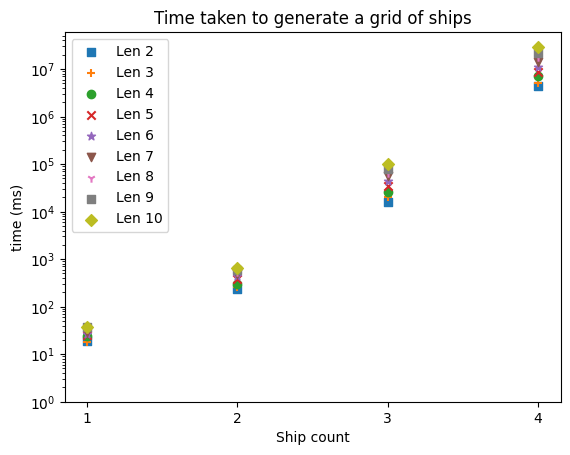
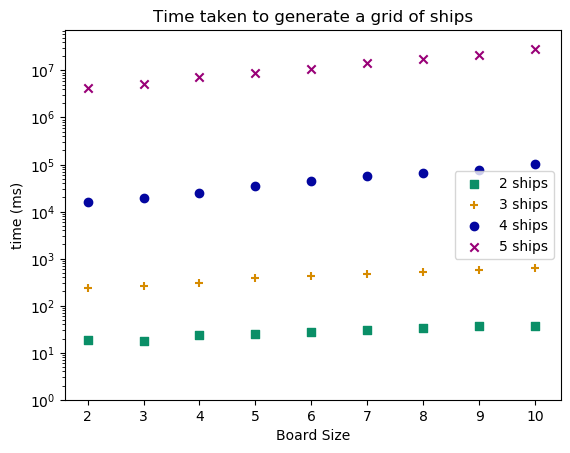
shorter speed testing prep

diff --git a/src/Runner.java b/src/Runner.java
@@ -27,46 +27,49 @@ public class Runner {
         int allBoards=0;
         int goodBoards=0;
         
-        while(encodedBoard!=null){
-            try {
-                System.out.print(Arrays.toString(encodedBoard));
-                String s1=String.format("%8s", Integer.toBinaryString((int) encodedBoard[0] & 0xFF)).replace(' ', '0');
-                System.out.println("\t0b"+s1);
+        // File fValid = new File("../out/bytes_validShips_"+Board.getLen()+"_"+fleet.size()+".txt");
+        // try (FileWriter frValid = new FileWriter(fValid)){
 
-                Board test = Board.decodeBoard(encodedBoard, fleet);
-                goodBoards++;
 
-            } catch (InvalidPlacementException e) {
-                // System.out.println("Uhoh: Bad ship placment");
-            } catch (InvalidShipTypeException e) {
-                System.out.println("Uhoh! Ship Type is wrong");
-                System.out.println(e.getStackTrace());
-            } catch (InvalidPositionException e){
-                // System.out.println("Uhoh: Bad coordinate");
+            while(encodedBoard!=null){
+                try {
+                    Board test = Board.decodeBoard(encodedBoard, fleet);
+                    goodBoards++;
+                    // frValid.write(Arrays.toString(encodedBoard)+",");
+                } catch (InvalidPlacementException e) {
+                    // System.out.println("Uhoh: Bad ship placment");
+                } catch (InvalidShipTypeException e) {
+                    System.out.println("Uhoh! Ship Type is wrong");
+                    System.out.println(e.getStackTrace());
+                } catch (InvalidPositionException e){
+                    // System.out.println("Uhoh: Bad coordinate");
+                }
+
+                allBoards++;
+                if(allBoards%1e7==0) System.out.println("done "+Math.round(allBoards/1e7)+"/"+Math.round(Math.pow(255,fleet.size())/1e7));
+
+                encodedBoard = nextByte(encodedBoard);
             }
-
-            allBoards++;
-            if(allBoards%1e7==0) System.out.println("done "+Math.round(allBoards/1e7)+"/"+Math.round(Math.pow(255,fleet.size())/1e7));
-
-            encodedBoard = nextByte(encodedBoard);
-        }
-        long endTime = System.currentTimeMillis();
+            long endTime = System.currentTimeMillis();
+        // } catch (IOException e) {
+		// 	e.printStackTrace();
+        // }
         
-        // String timeCSV = (endTime - startTime)+",";
-        // String countCSV = goodBoards+",";
+        String timeCSV = (endTime - startTime)+",";
+        String countCSV = goodBoards+",";
         System.out.println(allBoards);
 
 
-        // // append status to a file
-        // File fTime = new File("../timeTesting/results_timeData_java.txt");
-        // File fCount = new File("../timeTesting/results_shipCount.txt");
-		// try (FileWriter frTime = new FileWriter(fTime, true);
-        //      FileWriter frCount = new FileWriter(fCount, true)){			
-		// 	frTime.write(timeCSV);
-        //     frCount.write(countCSV);
-		// } catch (IOException e) {
-		// 	e.printStackTrace();
-		// }
+        // append status to a file
+        File fTime = new File("../timeTesting/results_timeData_java.txt");
+        File fCount = new File("../timeTesting/results_shipCount.txt");
+		try (FileWriter frTime = new FileWriter(fTime, true);
+             FileWriter frCount = new FileWriter(fCount, true)){			
+			frTime.write(timeCSV);
+            frCount.write(countCSV);
+		} catch (IOException e) {
+			e.printStackTrace();
+		}
         
     }
 

diff --git a/timeTesting/timePlots.py b/timeTesting/timePlots.py
@@ -71,9 +71,8 @@ def plotAvgData(minF,maxF,filename):
 
 
 if __name__ == "__main__":
-    timeData, gameInfo = readFile("./repeats/01_results_timeData_java.txt")
+    timeData, gameInfo = readFile("results_timeData_java.txt")
     plot(timeData, gameInfo, "results_timePlot.png")
-    plotAvgData(1,2,"results_timePlotAvg.png")
     
 
     # total time

diff --git a/README.md b/README.md
@@ -5,6 +5,15 @@
 - tidied up time testing
     - what is up with negatives?
     - 
+- Ran len 2-10 (ships 2-4)
+    - ship size is the contributing factor for runtime now (not board len)
+
+|Ship count -> |1|2|3|4|5|
+|--------------|-|-|-|-|-|
+|Avg time(ms)|27.89|427.33|48853.89|13193912.44||
+|"Real" Time|0s|0.4s|48s|3.6hr|~37 days|
+|BPS|9.14|152.16|339.41|320.47|330.00?|
+(BPS is Bytes per sec)
 
 
 
